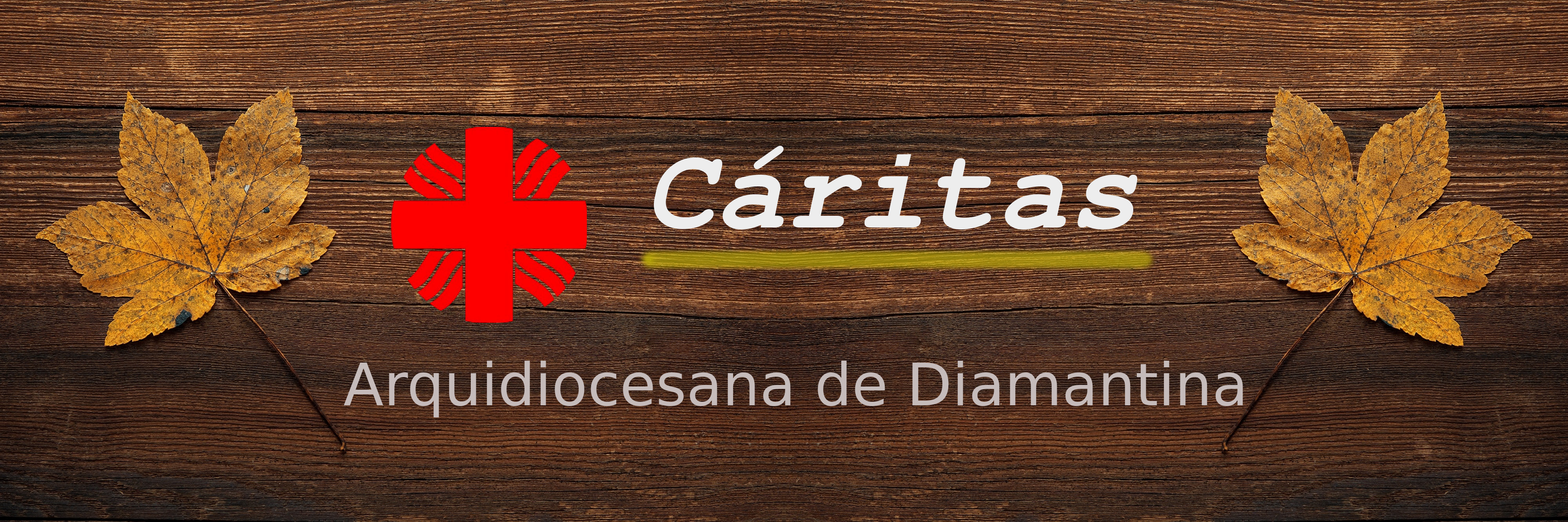
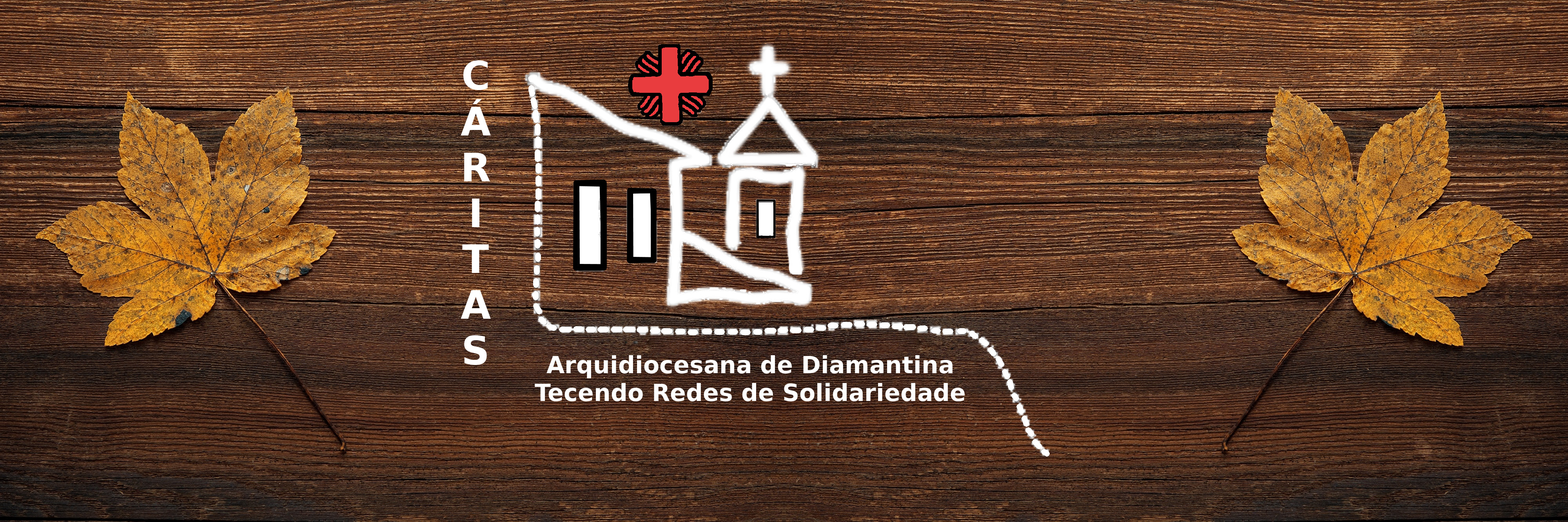
Algumas alterações

diff --git a/cabecalho.php b/cabecalho.php
@@ -21,7 +21,7 @@
     <!-- ################################################################################################ -->
     <div class="wrapper row1">
         <div>
-            <img src="img/caritasFundo_1.jpg"/>
+            <img src="img/caritasFundo.jpg"/>
         </div>
     </div>
     <!-- ################################################################################################ -->
